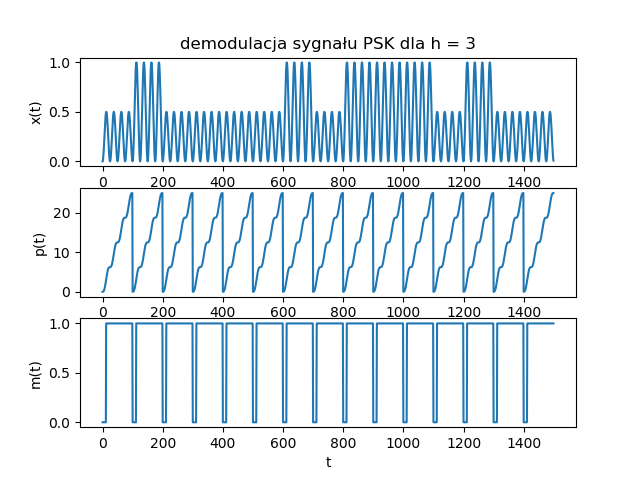
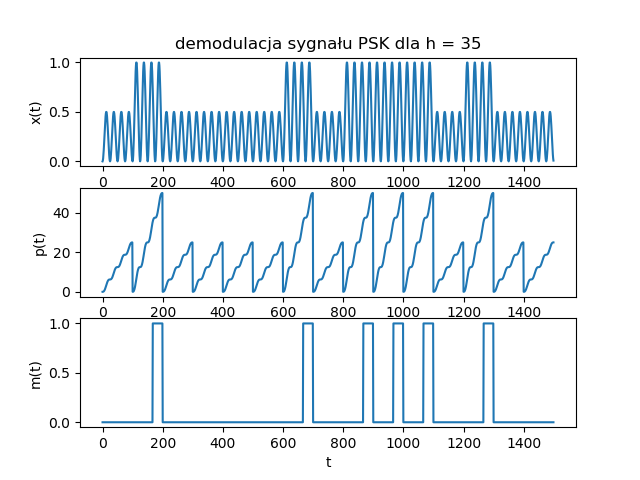
panda3 :/s

diff --git a/PTD5/ptd5.py b/PTD5/ptd5.py
@@ -3,31 +3,19 @@ import numpy as np
 import ptd4copy as ptd4
 from itertools import accumulate
 
-
-
 #######PSK
-
-sp = []
-n = np.arange(ptd4.M)
-d = np.arange(ptd4.fs)
-for b in n:
-    for s in d:
-        x = np.sin(2 * np.pi * ptd4.fn * s/ ptd4.fs)
-        sp.append(x)
-
+sp = [(np.sin(2 * np.pi * ptd4.fn * b/ ptd4.fs)) for b in range(1500)]
 psk = np.multiply(ptd4.zp,sp)
 def sumation(x):
-    n = np.arange(ptd4.M)
-    d = np.arange(ptd4.fs)
-    suma = 0
+    xd = suma = 0
     xt = []
-    for i in n:
+    for i in np.arange(ptd4.M):
         suma = 0
-        for j in d:
-            suma += x[j]
+        for j in np.arange(ptd4.fs):
+            suma += x[xd]
             xt.append(suma)
+            xd = xd + 1
     return xt
-
 
 def demod1(d,h):
     s = []
@@ -39,52 +27,95 @@ def demod1(d,h):
             s.append(0)
     return s
 
+# h1 =10
+# xt = sumation(psk)
+# ss =  demod1(xt,h1)
+# plt.figure()
+# plt.subplot(3,1,1)
+# plt.title('demodulacja sygnału PSK dla h = {0}'.format(h1))
+# plt.xlabel('t')
+# plt.ylabel('x(t)')
+# plt.plot(psk)
+# plt.subplot(3,1,2)
+# plt.xlabel('t')
+# plt.ylabel('p(t)')
+# plt.plot(xt)
+# plt.subplot(3,1,3)
+# plt.xlabel('t')
+# plt.ylabel('m(t)')
+# plt.plot(ss)
+# plt.savefig('lab5zad1PSK')
+#
+#
+# sa = [ptd4.A2 * np.sin(2 * np.pi * ptd4.fn * b / ptd4.fs) for b in range(1500)]
+#
+#
+# h2 = 35
+#
+# ask = np.multiply(ptd4.za,sp)
+# s1 = sumation(ask)
+# m2 = demod1(s1,h2)
+#
+# plt.figure()
+# plt.subplot(3,1,1)
+# plt.title('demodulacja sygnału ASK dla h = {0}'.format(h2))
+# plt.xlabel('t')
+# plt.ylabel('x(t)')
+# plt.plot(ask)
+# plt.subplot(3,1,2)
+# plt.xlabel('t')
+# plt.ylabel('p(t)')
+# plt.plot(s1)
+# plt.subplot(3,1,3)
+# plt.xlabel('t')
+# plt.ylabel('m(t)')
+# plt.plot(m2)
+# plt.savefig('lab5zad1ASK')
 
-h1 = 4
-xt = sumation(psk)
-ss =  demod1(xt,h1)
+sn1 = [np.sin(2 * np.pi * ptd4.fn1 * b / ptd4.fs) for b in range(1500)]
+sn2 = [np.sin(2 * np.pi * ptd4.fn2 * b / ptd4.fs) for b in range(1500)]
+xt1 = np.multiply(ptd4.zf,sn1)
+xt2 = np.multiply(ptd4.zf,sn2)
+px1 = sumation(xt1)
+px2 = sumation(xt2)
+
+pt = px1 + px2
+h3 = 23
+m3 = demod1(pt,h3)
+
 plt.figure()
-plt.subplot(3,1,1)
-plt.title('demodulacja sygnału PSK dla h = {0}'.format(h1))
+plt.subplot(2,1,1)
+plt.title('FSK x1(t) i px1(t)')
 plt.xlabel('t')
-plt.ylabel('x(t)')
-plt.plot(psk)
-plt.subplot(3,1,2)
+plt.ylabel('x1(t)')
+plt.plot(xt1)
+plt.subplot(2,1,2)
+plt.xlabel('t')
+plt.ylabel('px2(t)')
+plt.plot(px1)
+plt.savefig('lab5FSKxt')
+plt.figure()
+plt.subplot(2,1,1)
+plt.title('FSK x2(t) i px2(t)')
+plt.xlabel('t')
+plt.ylabel('x1(t)')
+plt.plot(xt2)
+plt.subplot(2,1,2)
+plt.xlabel('t')
+plt.ylabel('px2(t)')
+plt.plot(px2)
+plt.savefig('lab5FSKpxt')
+plt.figure()
+
+plt.subplot(2,1,1)
+plt.title('demodulacja sygnału FSK dla h = {0}'.format(h3))
 plt.xlabel('t')
 plt.ylabel('p(t)')
-plt.plot(xt)
-plt.subplot(3,1,3)
+plt.plot(pt)
+plt.subplot(2,1,2)
 plt.xlabel('t')
 plt.ylabel('m(t)')
-plt.plot(ss)
-plt.savefig('lab5zad1PSK')
+plt.plot(m3)
+plt.savefig('lab5FSKmtpt')
 
-
-sa = []
-for _ in n:
-    for s in d:
-        sa.append(ptd4.A2 * np.sin(2 * np.pi * ptd4.fn * s / ptd4.fs))
-
-
-h2 = 3
-
-ask = np.multiply(ptd4.za,sp)
-s1 = sumation(ask)
-m2 = demod1(s1,h2)
-
-plt.figure()
-plt.subplot(3,1,1)
-plt.title('demodulacja sygnału PSK dla h = {0}'.format(h2))
-plt.xlabel('t')
-plt.ylabel('x(t)')
-plt.plot(ask)
-plt.subplot(3,1,2)
-plt.xlabel('t')
-plt.ylabel('p(t)')
-plt.plot(s1)
-plt.subplot(3,1,3)
-plt.xlabel('t')
-plt.ylabel('m(t)')
-plt.plot(m2)
-plt.savefig('lab5zad1ASK')
 plt.show()
